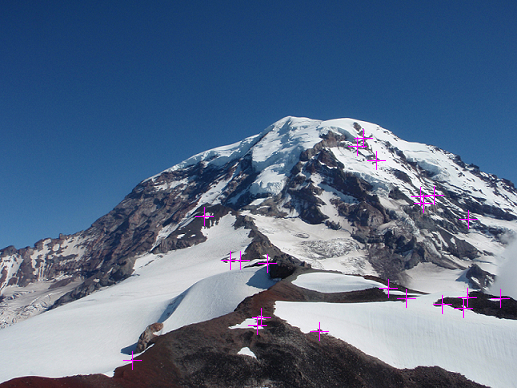
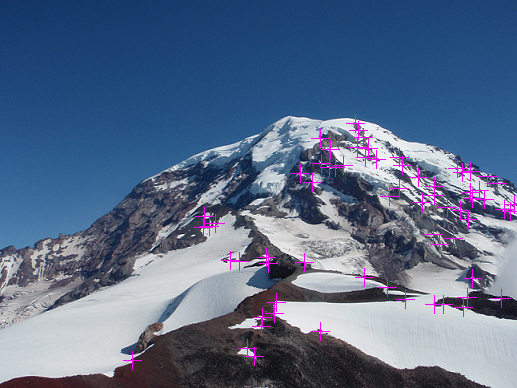
bugfix

diff --git a/trypanorama.py b/trypanorama.py
@@ -2,19 +2,19 @@ from uwimg import *
 
 def draw_corners():
     im = load_image("data/Rainier1.png")
-    detect_and_draw_corners(im, 2, 100, 3)
+    detect_and_draw_corners(im, 2, 50, 3)
     save_image(im, "corners")
 
 def draw_matches():
     a = load_image("data/Rainier1.png")
     b = load_image("data/Rainier2.png")
-    m = find_and_draw_matches(a, b, 2, 100, 3)
+    m = find_and_draw_matches(a, b, 2, 50, 3)
     save_image(m, "matches")
 
 def easy_panorama():
     im1 = load_image("data/Rainier1.png")
     im2 = load_image("data/Rainier2.png")
-    pan = panorama_image(im1, im2, thresh=100)
+    pan = panorama_image(im1, im2, thresh=50)
     save_image(pan, "easy_panorama")
 
 def rainier_panorama():
@@ -24,11 +24,11 @@ def rainier_panorama():
     im4 = load_image("data/Rainier4.png")
     im5 = load_image("data/Rainier5.png")
     im6 = load_image("data/Rainier6.png")
-    pan = panorama_image(im5, im6, thresh=5)
+    pan = panorama_image(im1, im2, thresh=5)
     save_image(pan, "rainier_panorama_1")
-    pan2 = panorama_image(pan, im1, thresh=5)
+    pan2 = panorama_image(pan, im5, thresh=5)
     save_image(pan2, "rainier_panorama_2")
-    pan3 = panorama_image(pan2, im2, thresh=5)
+    pan3 = panorama_image(pan2, im6, thresh=5)
     save_image(pan3, "rainier_panorama_3")
     pan4 = panorama_image(pan3, im3, thresh=5)
     save_image(pan4, "rainier_panorama_4")

diff --git a/README.md b/README.md
@@ -73,7 +73,7 @@ Fill in the missing sections of `descriptor *harris_corner_detector(image im, fl
 After you complete this function you should be able to calculate corners and descriptors for an image! Try running:
 
     im = load_image("data/Rainier1.png")
-    detect_and_draw_corners(im, 2, 100, 3)
+    detect_and_draw_corners(im, 2, 50, 3)
     save_image(im, "corners")
 
 This will detect corners using a Gaussian window of 2 sigma, a "cornerness" threshold of 100, and an nms distance of 3 (or window of 7x7). It should give you something like this:
@@ -107,7 +107,7 @@ Once this is done we can show the matches we discover between the images:
 
     a = load_image("data/Rainier1.png")
     b = load_image("data/Rainier2.png")
-    m = find_and_draw_matches(a, b, 2, 100, 3)
+    m = find_and_draw_matches(a, b, 2, 50, 3)
     save_image(m, "matches")
 
 Which gives you:
@@ -161,7 +161,7 @@ With all this working you should be able to create some basic panoramas:
 
     im1 = load_image("data/Rainier1.png")
     im2 = load_image("data/Rainier2.png")
-    pan = panorama_image(im1, im2, thresh=100)
+    pan = panorama_image(im1, im2, thresh=50)
     save_image(pan, "easy_panorama")
 
 ![panorama](figs/easy_panorama.jpg)
